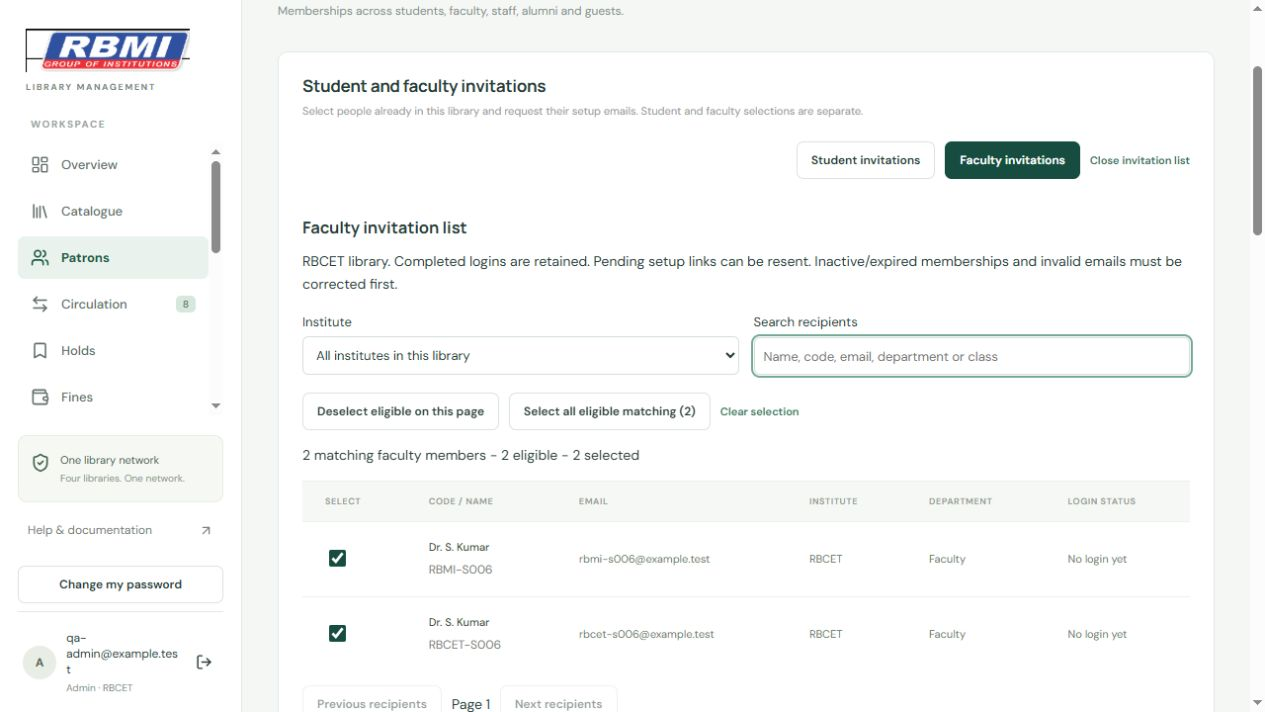
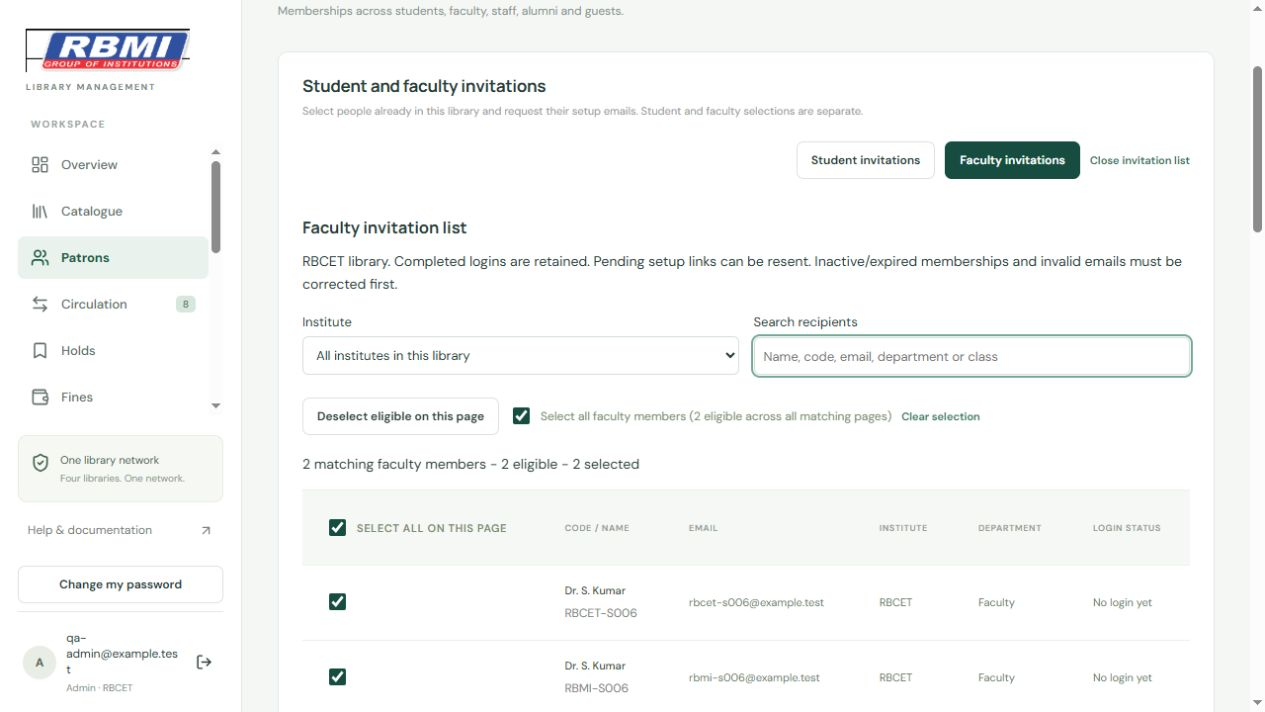
Add Select all checkboxes for student and faculty invitations

diff --git a/src/PatronInvitations.jsx b/src/PatronInvitations.jsx
@@ -2,6 +2,11 @@ import React,{useEffect,useRef,useState} from 'react';
 import {demo,supabase,rpc,downloadCSV} from './api';
 import {collectEligible,sendInvitations} from './invitation-batch.mjs';
 const labels={not_created:'No login yet',pending_invite:'Setup invitation pending',existing:'Existing account - retained',inactive:'Inactive membership',expired:'Expired membership',missing_email:'Missing or invalid email'};
+function SelectionCheckbox({label,checked,mixed,disabled,onChange,children}){
+ const input=useRef(null);
+ useEffect(()=>{if(input.current)input.current.indeterminate=Boolean(mixed);},[mixed]);
+ return <label className="checkbox-field selection-checkbox"><input ref={input} type="checkbox" aria-label={label} checked={checked} disabled={disabled} onChange={e=>onChange(e.target.checked)}/><span>{label}{children}</span></label>;
+}
 export function PatronInvitations({institution,campuses}){
  const [category,setCategory]=useState(null),[busy,setBusy]=useState(false);
  return <section className="panel spaced" aria-label="Student and faculty invitations">
@@ -24,6 +29,7 @@ function InvitationList({institution,category,campuses,onBusy}){
  function clearSelection(){setSelected(new Map());setReviewed(false);setNotice('');}
  function choose(rows,remove=false){const next=new Map(selected);for(const row of rows)if(row.eligible){if(remove)next.delete(row.id);else next.set(row.id,row);}if(next.size>5000){setError('Select at most 5,000 people. Narrow the institute or search filter.');return;}setSelected(next);setReviewed(false);}
  const locked=busy||selecting,pendingSearch=draft.trim()!==q,eligiblePage=page.rows.filter(r=>r.eligible),allPage=eligiblePage.length>0&&eligiblePage.every(r=>selected.has(r.id));
+ const allMatching=page.eligible_count>0&&selected.size===page.eligible_count,selectedOnPage=eligiblePage.filter(r=>selected.has(r.id)).length;
  async function selectMatching(){setSelecting(true);setError('');try{const rows=await collectEligible(p=>rpc('library_invitation_candidates_page',p),args,{shouldStop:()=>!active.current});if(active.current){setSelected(new Map(rows.map(r=>[r.id,r])));setReviewed(false);}}catch(e){if(active.current)setError(e.message);}finally{if(active.current)setSelecting(false);}}
  async function send(){
   if(!reviewed||!selected.size||locked)return;
@@ -42,13 +48,13 @@ function InvitationList({institution,category,campuses,onBusy}){
   </div>
   <div className="section-actions">
    <button className="button" disabled={locked||loading||pendingSearch||!eligiblePage.length} onClick={()=>choose(eligiblePage,allPage)}>{allPage?'Deselect eligible on this page':'Select eligible on this page'}</button>
-   <button className="button" disabled={locked||loading||pendingSearch||!page.eligible_count||page.eligible_count>5000} onClick={selectMatching}>{selecting?'Selecting...':`Select all eligible matching (${page.eligible_count})`}</button>
+   <SelectionCheckbox label={category==='student'?'Select all students':'Select all faculty members'} checked={allMatching} mixed={selected.size>0&&!allMatching} disabled={locked||loading||pendingSearch||!page.eligible_count||page.eligible_count>5000} onChange={checked=>checked?selectMatching():clearSelection()}> {selecting?'(selecting...)':`(${page.eligible_count} eligible across all matching pages)`}</SelectionCheckbox>
    <button className="text-button" disabled={locked||!selected.size} onClick={clearSelection}>Clear selection</button>
   </div>
   {page.eligible_count>5000&&<p className="alert">More than 5,000 eligible people match. Narrow the institute or search filter before selecting all.</p>}
   {error&&<p className="alert error" role="alert">{error}</p>}
   <p role="status">{loading?'Loading recipients...':`${page.total} matching ${category==='student'?'students':'faculty members'} - ${page.eligible_count} eligible - ${selected.size} selected`}</p>
-  <div className="table-scroll"><table><thead><tr><th>Select</th><th>Code / name</th><th>Email</th><th>Institute</th><th>Department</th><th>Login status</th></tr></thead><tbody>{!loading&&page.rows.map(r=><tr key={r.id}><td><input type="checkbox" aria-label={'Select '+r.code} disabled={locked||!r.eligible||pendingSearch} checked={selected.has(r.id)} onChange={e=>choose([r],!e.target.checked)}/></td><td><strong>{r.name}</strong><small>{r.code}</small></td><td>{r.email||'No email'}</td><td>{r.institute}</td><td>{r.department||'-'}</td><td>{labels[r.login_status]||r.login_status}</td></tr>)}</tbody></table></div>
+  <div className="table-scroll"><table><thead><tr><th><SelectionCheckbox label="Select all on this page" checked={allPage} mixed={selectedOnPage>0&&!allPage} disabled={locked||loading||pendingSearch||!eligiblePage.length} onChange={checked=>choose(eligiblePage,!checked)}/></th><th>Code / name</th><th>Email</th><th>Institute</th><th>Department</th><th>Login status</th></tr></thead><tbody>{!loading&&page.rows.map(r=><tr key={r.id}><td><input type="checkbox" aria-label={'Select '+r.code} disabled={locked||!r.eligible||pendingSearch} checked={selected.has(r.id)} onChange={e=>choose([r],!e.target.checked)}/></td><td><strong>{r.name}</strong><small>{r.code}</small></td><td>{r.email||'No email'}</td><td>{r.institute}</td><td>{r.department||'-'}</td><td>{labels[r.login_status]||r.login_status}</td></tr>)}</tbody></table></div>
   {!loading&&!page.rows.length&&<p>No matching {category==='student'?'students':'faculty members'} found.</p>}
   <div className="section-actions"><button className="button" disabled={locked||loading||pendingSearch||!history.length} onClick={()=>{setCursor(history.at(-1));setHistory(h=>h.slice(0,-1));}}>Previous recipients</button><span>Page {history.length+1}</span><button className="button" disabled={locked||loading||pendingSearch||!page.next_id} onClick={()=>{setHistory(h=>[...h,cursor]);setCursor(page.next_id);}}>Next recipients</button></div>
   <p>Selection is limited to 5,000 people. Invitations are submitted in batches of ten while this screen stays open. Changing institute, search or recipient type clears selection. Email delivery depends on Supabase/SMTP limits; a provider throttle pauses the queue.</p>

diff --git a/docs/help/patron-invitations.html b/docs/help/patron-invitations.html
@@ -1,1 +1,1 @@
-<!doctype html><html lang="en"><head><meta charset="utf-8"><meta name="viewport" content="width=device-width,initial-scale=1"><title>Selected student and faculty invitations</title><link rel="stylesheet" href="assets/manual.css"></head><body><img class="logo" src="assets/rbmi-logo.png" alt="RBMI"><p><a href="index.html">Help contents</a></p><h1>Selected student and faculty invitations</h1><p>Open Patrons and choose Student invitations or Faculty invitations. These lists are separate and use the selected library.</p><ol><li>Choose the institute and optionally search by name, code, email, department or class.</li><li>Select individual eligible rows, the current page, or all eligible matching people (up to 5,000). Changing filters or recipient type clears the selection.</li><li>Review the recipients, tick the approval checkbox and press Send invitations. Keep this screen open.</li><li>Use Stop after current batch to stop later requests. An already submitted batch cannot be recalled.</li><li>Review per-person results and export them if required. Select unsent recipients for retry only after checking the reason. Check uncertain results before resending.</li></ol><p>New accounts receive a setup invitation; pending setup emails can be resent. Completed accounts retain their passwords. Inactive/expired memberships and invalid emails must be corrected before selection.</p><div class="note"><p>Requested does not mean delivered. SMTP and Supabase email limits apply. A provider throttle or service failure pauses the queue without automatic retries. Queues are not saved after closing the screen. No email is sent merely by viewing or selecting rows.</p></div><p>Only administrators and assigned librarians can use this screen. The existing Android app loads it automatically; no new APK is needed.</p><h2>Example screen</h2><p>Sample accounts only. Selecting people does not send email until the review checkbox and Send action are used.</p><figure><img src="assets/screenshots/selected-invitations.png" alt="Separate student and faculty invitation controls with selected sample faculty members"><figcaption>Faculty invitation selection using synthetic records.</figcaption></figure></body></html>
+<!doctype html><html lang="en"><head><meta charset="utf-8"><meta name="viewport" content="width=device-width,initial-scale=1"><title>Selected student and faculty invitations</title><link rel="stylesheet" href="assets/manual.css"></head><body><img class="logo" src="assets/rbmi-logo.png" alt="RBMI"><p><a href="index.html">Help contents</a></p><h1>Selected student and faculty invitations</h1><p>Open Patrons and choose Student invitations or Faculty invitations. These lists are separate and use the selected library.</p><ol><li>Choose the institute and optionally search by name, code, email, department or class.</li><li>Use Select all students or Select all faculty members for all eligible matching people across pages (up to 5,000). The table header Select all on this page checkbox selects only the current page. Uncheck either control to deselect. Changing filters or recipient type clears the selection.</li><li>Review the recipients, tick the approval checkbox and press Send invitations. Keep this screen open.</li><li>Use Stop after current batch to stop later requests. An already submitted batch cannot be recalled.</li><li>Review per-person results and export them if required. Select unsent recipients for retry only after checking the reason. Check uncertain results before resending.</li></ol><p>New accounts receive a setup invitation; pending setup emails can be resent. Completed accounts retain their passwords. Inactive/expired memberships and invalid emails must be corrected before selection.</p><div class="note"><p>Requested does not mean delivered. SMTP and Supabase email limits apply. A provider throttle or service failure pauses the queue without automatic retries. Queues are not saved after closing the screen. No email is sent merely by viewing or selecting rows.</p></div><p>Only administrators and assigned librarians can use this screen. The existing Android app loads it automatically; no new APK is needed.</p><h2>Example screen</h2><p>Sample accounts only. Selecting people does not send email until the review checkbox and Send action are used.</p><figure><img src="assets/screenshots/selected-invitations.png" alt="Separate student and faculty invitation controls with selected sample faculty members"><figcaption>Faculty invitation selection using synthetic records.</figcaption></figure></body></html>

diff --git a/public/manual/patron-invitations.html b/public/manual/patron-invitations.html
@@ -1,1 +1,1 @@
-<!doctype html><html lang="en"><head><meta charset="utf-8"><meta name="viewport" content="width=device-width,initial-scale=1"><title>Selected student and faculty invitations</title><link rel="stylesheet" href="assets/manual.css"></head><body><img class="logo" src="assets/rbmi-logo.png" alt="RBMI"><p><a href="index.html">Help contents</a></p><h1>Selected student and faculty invitations</h1><p>Open Patrons and choose Student invitations or Faculty invitations. These lists are separate and use the selected library.</p><ol><li>Choose the institute and optionally search by name, code, email, department or class.</li><li>Select individual eligible rows, the current page, or all eligible matching people (up to 5,000). Changing filters or recipient type clears the selection.</li><li>Review the recipients, tick the approval checkbox and press Send invitations. Keep this screen open.</li><li>Use Stop after current batch to stop later requests. An already submitted batch cannot be recalled.</li><li>Review per-person results and export them if required. Select unsent recipients for retry only after checking the reason. Check uncertain results before resending.</li></ol><p>New accounts receive a setup invitation; pending setup emails can be resent. Completed accounts retain their passwords. Inactive/expired memberships and invalid emails must be corrected before selection.</p><div class="note"><p>Requested does not mean delivered. SMTP and Supabase email limits apply. A provider throttle or service failure pauses the queue without automatic retries. Queues are not saved after closing the screen. No email is sent merely by viewing or selecting rows.</p></div><p>Only administrators and assigned librarians can use this screen. The existing Android app loads it automatically; no new APK is needed.</p><h2>Example screen</h2><p>Sample accounts only. Selecting people does not send email until the review checkbox and Send action are used.</p><figure><img src="assets/screenshots/selected-invitations.png" alt="Separate student and faculty invitation controls with selected sample faculty members"><figcaption>Faculty invitation selection using synthetic records.</figcaption></figure></body></html>
+<!doctype html><html lang="en"><head><meta charset="utf-8"><meta name="viewport" content="width=device-width,initial-scale=1"><title>Selected student and faculty invitations</title><link rel="stylesheet" href="assets/manual.css"></head><body><img class="logo" src="assets/rbmi-logo.png" alt="RBMI"><p><a href="index.html">Help contents</a></p><h1>Selected student and faculty invitations</h1><p>Open Patrons and choose Student invitations or Faculty invitations. These lists are separate and use the selected library.</p><ol><li>Choose the institute and optionally search by name, code, email, department or class.</li><li>Use Select all students or Select all faculty members for all eligible matching people across pages (up to 5,000). The table header Select all on this page checkbox selects only the current page. Uncheck either control to deselect. Changing filters or recipient type clears the selection.</li><li>Review the recipients, tick the approval checkbox and press Send invitations. Keep this screen open.</li><li>Use Stop after current batch to stop later requests. An already submitted batch cannot be recalled.</li><li>Review per-person results and export them if required. Select unsent recipients for retry only after checking the reason. Check uncertain results before resending.</li></ol><p>New accounts receive a setup invitation; pending setup emails can be resent. Completed accounts retain their passwords. Inactive/expired memberships and invalid emails must be corrected before selection.</p><div class="note"><p>Requested does not mean delivered. SMTP and Supabase email limits apply. A provider throttle or service failure pauses the queue without automatic retries. Queues are not saved after closing the screen. No email is sent merely by viewing or selecting rows.</p></div><p>Only administrators and assigned librarians can use this screen. The existing Android app loads it automatically; no new APK is needed.</p><h2>Example screen</h2><p>Sample accounts only. Selecting people does not send email until the review checkbox and Send action are used.</p><figure><img src="assets/screenshots/selected-invitations.png" alt="Separate student and faculty invitation controls with selected sample faculty members"><figcaption>Faculty invitation selection using synthetic records.</figcaption></figure></body></html>

diff --git a/src/styles.css b/src/styles.css
@@ -13,3 +13,4 @@
 .report-actions{display:flex;gap:8px;flex-wrap:wrap}.report-card .report-actions{margin-top:12px}.report-card .report-actions .button{padding:8px 10px;font-size:12px}.report-filters{display:flex;flex-wrap:wrap;gap:16px;align-items:end;padding:0 20px 18px}.report-filters label{display:grid;gap:7px;font-size:13px}.report-filters label:first-child{flex:1;min-width:200px}.report-filters input,.report-filters select{padding:10px;border:1px solid #d4dfd8;border-radius:6px}.report-filters p{flex-basis:100%;margin:0;font-size:13px;color:#53655a}.report-table{max-height:65vh;overflow:auto}.report-table th{position:sticky;top:0;background:#f1f6f3;z-index:1}.report-table td{max-width:300px;overflow-wrap:anywhere;white-space:normal}.report-pagination{display:flex;justify-content:space-between;align-items:center;padding:18px 20px;gap:12px}.report-progress{display:flex;align-items:center;justify-content:space-between;gap:15px}.report-viewer{scroll-margin-top:20px}.report-viewer h2:focus{outline:2px solid #2c7855;outline-offset:4px}@media(max-width:650px){.report-pagination{flex-wrap:wrap}.report-viewer .panel-heading{align-items:start;flex-direction:column;gap:14px}.report-actions .button{min-height:40px}}
 .report-table table{width:max-content;min-width:100%}.report-table th{white-space:nowrap}.report-table td{min-width:95px;max-width:300px;word-break:normal;overflow-wrap:break-word}.report-table [data-col="row_no"]{min-width:45px;width:45px}.report-table [data-col="library"]{min-width:75px}.report-table [data-col="title"]{min-width:220px}.report-table [data-col="author"],.report-table [data-col="name"],.report-table [data-col="patron"]{min-width:150px}.report-table [data-col="barcode"],.report-table [data-col="accession"],.report-table [data-col="isbn"]{white-space:nowrap;min-width:120px}
 .invitation-list{padding:0 24px 24px}.invitation-list>h3{margin:6px 0 10px}.invitation-list>p{margin:12px 0}.invitation-list .search-filters{padding:0;margin:18px 0}.panel .invitation-list .section-actions{padding:0;justify-content:flex-start;margin:14px 0;flex-wrap:wrap}.invitation-list .table-scroll{max-height:420px;overflow:auto;margin:14px 0}.invitation-list th{position:sticky;top:0;z-index:1;background:#f5f8f4}.invitation-list .checkbox-field{margin:18px 0;align-items:flex-start}.invitation-list section[aria-label="Invitation sending results"]{border-top:1px solid var(--border);margin-top:24px;padding-top:20px}@media(max-width:600px){.invitation-list{padding:0 18px 18px}}
+.invitation-list .selection-checkbox{margin:0;display:inline-flex;gap:8px;align-items:center}.invitation-list th .selection-checkbox{font-size:11px;white-space:normal;min-width:120px}.invitation-list .selection-checkbox input{flex-shrink:0}

diff --git a/docs/SELECTABLE-INVITATIONS.md b/docs/SELECTABLE-INVITATIONS.md
@@ -2,7 +2,7 @@
 
 1. Select the library, open **Patrons**, then choose **Student invitations** or **Faculty invitations**. These are separate lists and selections.
 2. Select an institute within that library. For the shared central library you can choose RBCET, RBMI or both. Search by name, membership code, email, department or class/profile text.
-3. Tick individual eligible rows, **Select eligible on this page**, or **Select all eligible matching**. Selection spans pages, with a 5,000-person limit. A wider result must be narrowed. Changing institute, search or recipient type clears the selection.
+3. Tick individual eligible rows, **Select eligible on this page**, or **Select all students** / **Select all faculty members**. The table header also has **Select all on this page**. Uncheck a master checkbox to deselect its scope; a dash indicates a partial selection. Selection spans pages, with a 5,000-person limit. A wider result must be narrowed. Changing institute, search or recipient type clears the selection.
 4. Review the displayed count and recipients, tick the approval checkbox, then press **Send invitations to ... selected students/faculty members**. This is the point that requests actual emails.
 5. Keep the page open. Requests run sequentially in batches of ten. **Stop after current batch** prevents later batches; an already submitted batch cannot be recalled. Leaving the screen also stops later batches.
 6. Review per-person results and optionally export them as CSV. **Select unsent recipients for retry** selects only people explicitly marked not sent or rate limited, and requires another review/approval. An uncertain result must be inspected before resending, since its email may already have been requested.
